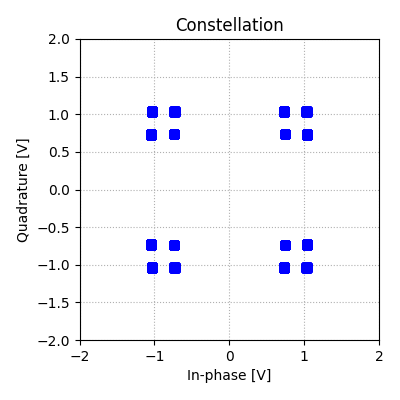
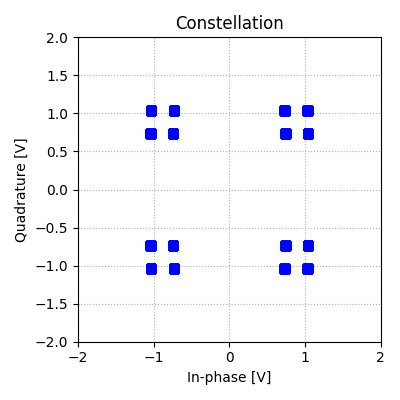
Show PAM approximation via simple addition of MFs, pseudo-symbols, and phase state, rather than convolution

diff --git a/examples/soqpsk_pam.py b/examples/soqpsk_pam.py
@@ -5,6 +5,7 @@ import matplotlib.pyplot as plt
 import numpy as np
 from matplotlib.axes import Axes
 from matplotlib.ticker import MultipleLocator
+from numpy.typing import NDArray
 
 from waveforms.cpm.modulate import cpm_modulate
 from waveforms.cpm.pamapprox import rho_pulses
@@ -41,7 +42,7 @@ if __name__ == "__main__":
     symbols = symbol_precoder(bit_array)
 
     # Create plots and axes
-    fig_eye, iq_axes = plt.subplots(2, 2, figsize=(12, 8), dpi=100)
+    fig_eye, iq_axes = plt.subplots(3, 2, figsize=(12, 8), dpi=100)
 
     # Generate pseudo-symbols
     pseudo_symbols = np.array(
@@ -61,6 +62,7 @@ if __name__ == "__main__":
         # Assign axes
         iq_ax: Axes = iq_axes[0, i]
         rho_ax: Axes = iq_axes[1, i]
+        mf_ax: Axes = iq_axes[2, i]
 
         # Modulate the input symbols
         normalized_time, modulated_signal = cpm_modulate(
@@ -70,7 +72,6 @@ if __name__ == "__main__":
             sps=sps,
         )
         modulated_signal[:] *= np.exp(+1j * np.pi / 4)
-        freq_pulses = np.angle(modulated_signal[1:] * modulated_signal.conj()[1:]) * sps / np.pi
 
         # Display transmitted and received signal in the time domain
         iq_ax.plot(
@@ -101,15 +102,8 @@ if __name__ == "__main__":
             bottom=0,
             markerfmt="ko",
             linefmt="k-",
-            basefmt=" ",
+            basefmt="k",
             label="Symbol",
-        )
-        pulse_ax.plot(
-            normalized_time[:-1],
-            freq_pulses,
-            "k-",
-            alpha=0.4,
-            label="Frequency Pulses",
         )
         pulse_ax.set_ylim(-np.pi / 2, np.pi / 2)
 
@@ -141,22 +135,51 @@ if __name__ == "__main__":
         # Re-construct signal from PAM pulses following Laurent Decomposition principles
         num_points = (symbols.size + 1) * sps
         pseudo_symbols_interpolated = np.zeros((k_max, num_points), dtype=np.complex128)
-        pam_approx = np.zeros_like(modulated_signal)
+        pam_approx = np.zeros(len(symbols)*sps + d_max + 1, dtype=np.complex128)
         symbol_indicies = (symbols / 2 + 1).astype(np.int8)
 
         # Cumulative phase state from symbol
         phase_index = np.cumsum(np.concatenate([[2], symbols], dtype=np.int32))
         phase_state = np.exp(1j * phase_index * np.pi / 4).round()
 
-        # PAM Approximation of a CPM signal
-        for k in range(k_max):
-            delay = int((d_max - rho[k].size) / 2)
-            pseudo_symbols_interpolated[k, sps - delay : -1 - delay : sps] = (
-                np.take(pseudo_symbols[k], symbol_indicies) * phase_state[:-1]
+        # Plot the matched filters
+        matched_filters: list[NDArray[np.complex128]] = []
+        t = np.linspace(0, (d_max - 1) / sps, num=d_max)
+        for j in range(num_symbols)[::-1]:
+            matched_filter = np.zeros(d_max, dtype=np.complex128)
+            for k in range(k_max):
+                matched_filter[:rho[k].size] += np.conj(pseudo_symbols[k][j]) * rho[k]
+            line, = mf_ax.plot(
+                t,
+                matched_filter.real,
+                label=rf"$H_{{{j-1:+}}}(t)$",
+                linestyle="-",
+                linewidth=1+j,
             )
-            pam_approx[:] += np.convolve(pseudo_symbols_interpolated[k, :], rho[k], mode="same")
+            mf_ax.plot(
+                t,
+                matched_filter.imag,
+                linestyle="--",
+                linewidth=1+j,
+                color=line.get_color(),
+            )
+            matched_filters.append(matched_filter)
 
-        pam_delay = int(sps // 2)
+        # PAM Approximation of a CPM signal
+        for idx, symbol in enumerate(symbols):
+            symbol_idx = int(symbol / 2) + 1
+            pam_approx[idx*sps:idx*sps + d_max] += phase_state[idx] * matched_filters[symbol_idx]
+
+        # Alternatively, via convolution of rho[k] against an array of pseudo symbols zero-filled to sps
+        # for k in range(k_max):
+        #     delay = int((d_max - rho[k].size) / 2)
+        #     pseudo_symbols_interpolated[k, sps - delay : -1 - delay : sps] = (
+        #         np.take(pseudo_symbols[k], symbol_indicies) * phase_state[:-1]
+        #     )
+        #     pam_approx[:] += np.convolve(pseudo_symbols_interpolated[k, :], rho[k], mode="same")
+
+        pam_approx = pam_approx[sps*L:-2]
+        pam_delay = int((d_max + sps) // 2)
         iq_ax.plot(
             normalized_time[pam_delay:],
             pam_approx.real[:-pam_delay],
@@ -185,6 +208,10 @@ if __name__ == "__main__":
         rho_ax.grid(which="both", linestyle=":")
         rho_ax.legend()
 
+    for mf_ax in iq_axes[2, :]:
+        mf_ax.grid(which="both", linestyle=":")
+        mf_ax.legend()
+
     qpsk_esque_signal = np.zeros_like(pam_approx)
     pam_approx[:] *= np.exp(1j * np.pi / 4)
     qpsk_esque_signal[sps:] += pam_approx.real[:-sps]
@@ -195,7 +222,7 @@ if __name__ == "__main__":
     ax_const.set_ylim([-2, 2])
     ax_const.set_title("SOQPSK PAM Approximation Constellation")
     fig_const = plot_constellation(
-        signal=qpsk_esque_signal[sps * 2 - pam_delay :: sps * 2][1:],
+        signal=qpsk_esque_signal[sps :: sps * 2][1:-2],
         n=8192,
         axis=ax_const,
         linestyle=" ",

diff --git a/examples/soqpsk_detection.py b/examples/soqpsk_detection.py
@@ -161,13 +161,18 @@ if __name__ == "__main__":
         k_max, num_symbols = pseudo_symbols.shape
         mf_outputs_pam = np.zeros((num_symbols, received_signal.size), dtype=np.complex128)
         for sym_idx in range(num_symbols):
+            # Generate matched filter for ternary symbol
+            matched_filted = np.zeros(d_max, dtype=np.complex128)
             for k in range(k_max):
                 # Zero-pad all to length d_max for alignment
-                mf_outputs_pam[sym_idx, :] += np.convolve(
-                    received_signal,
-                    rho[k],
-                    mode="same",
-                ) * np.conj(pseudo_symbols[k, sym_idx])
+                matched_filted[:rho[k].size] += rho[k] * np.conj(pseudo_symbols[k, sym_idx])
+
+            # Convolve received signal with matched filter
+            mf_outputs_pam[sym_idx, :] += np.convolve(
+                received_signal,
+                matched_filted,
+                mode="same",
+            )
             sym = 2 * (sym_idx - 1)
             (line,) = mf_ax.plot(
                 normalized_time,
